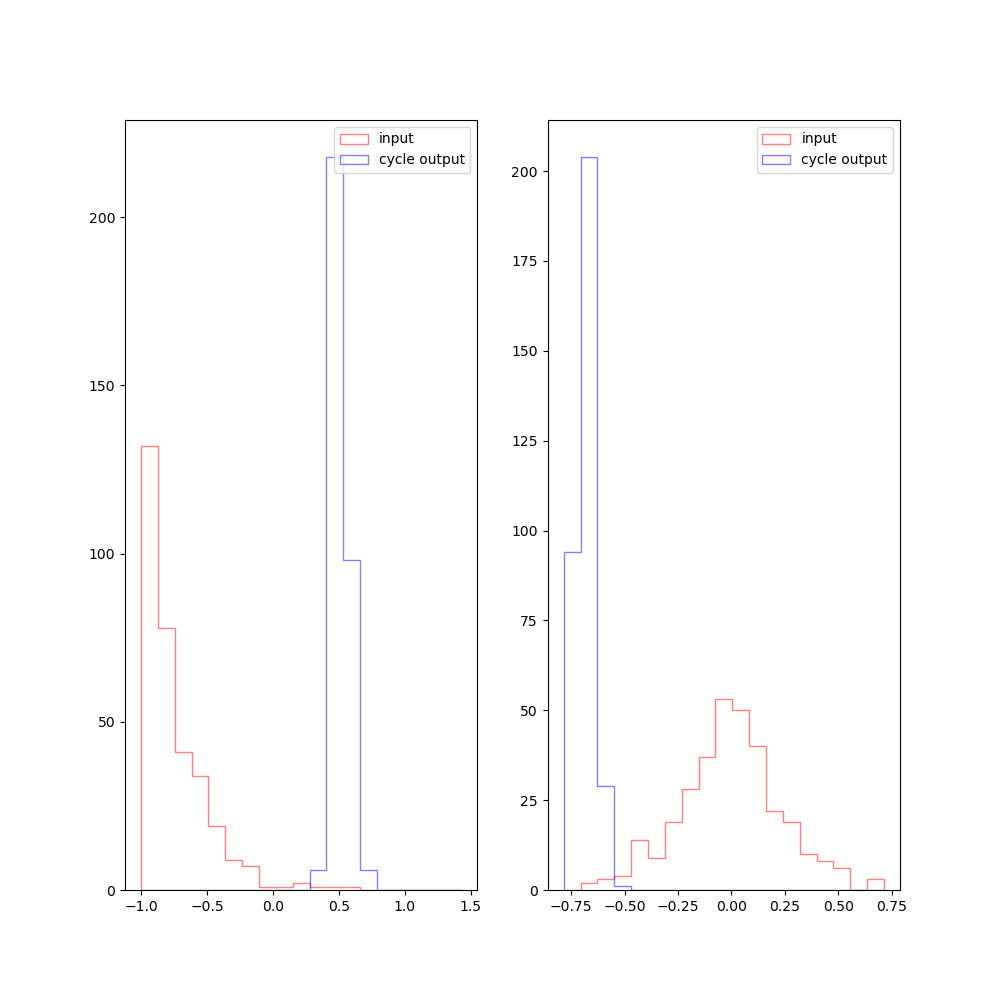
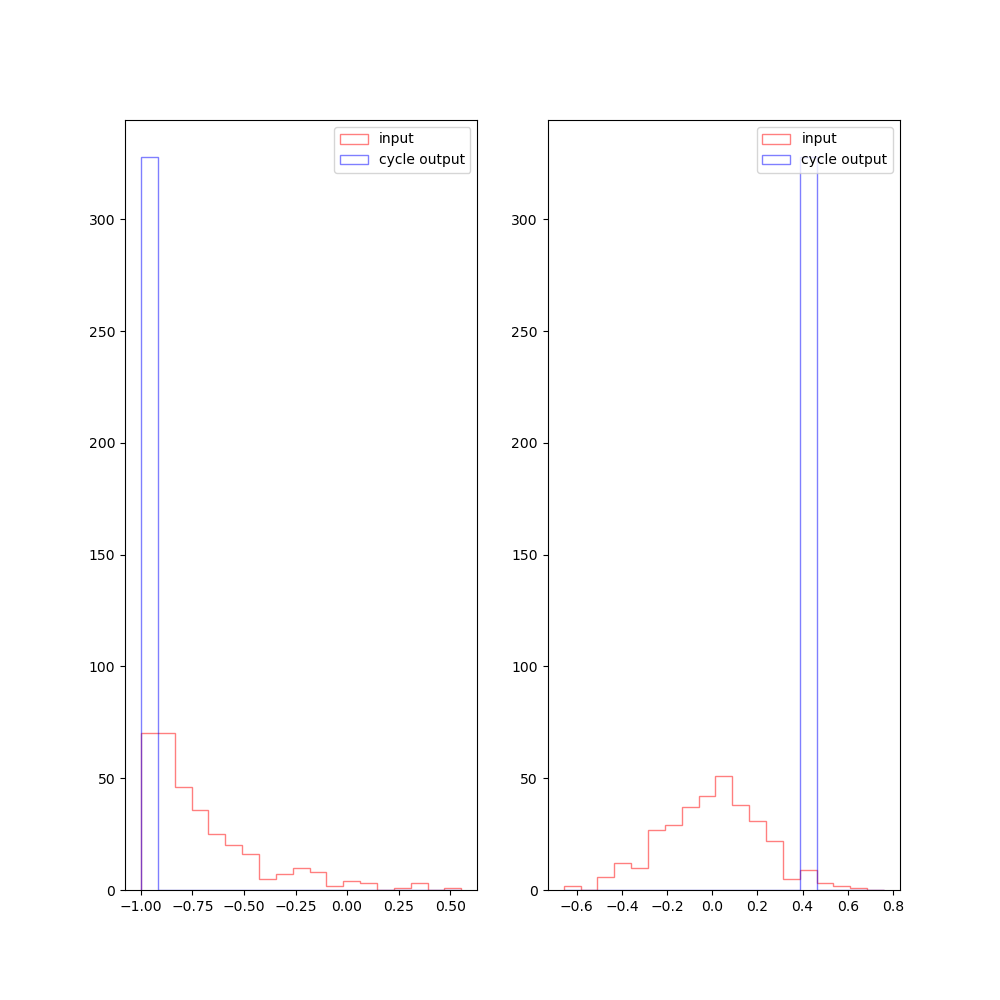
data

diff --git a/q_cycleGAN/cycleGAN_5.py b/q_cycleGAN/cycleGAN_5.py
@@ -323,7 +323,7 @@ if __name__ == "__main__":
     parser.add_argument("--latent_dim", default=3, type=int)
     parser.add_argument("--layers", default=2, type=int)
     parser.add_argument("--training_samples", default=10000, type=int)
-    parser.add_argument("--n_epochs", default=2000, type=int)
+    parser.add_argument("--n_epochs", default=30000, type=int)
     parser.add_argument("--batch_samples", default=328, type=int)
     parser.add_argument("--lr", default=0.1, type=float)
     args = vars(parser.parse_args())
